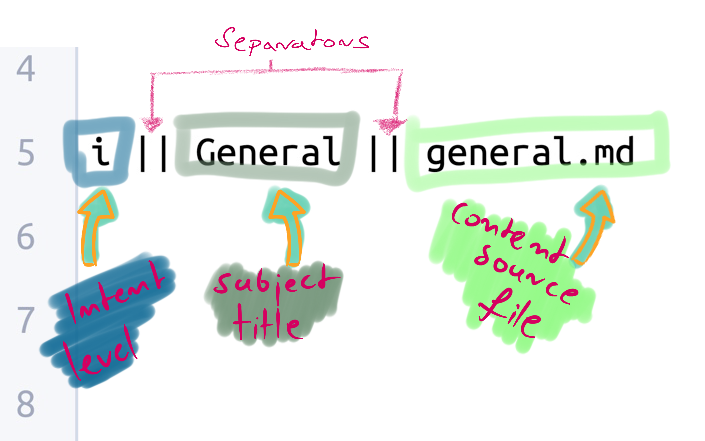
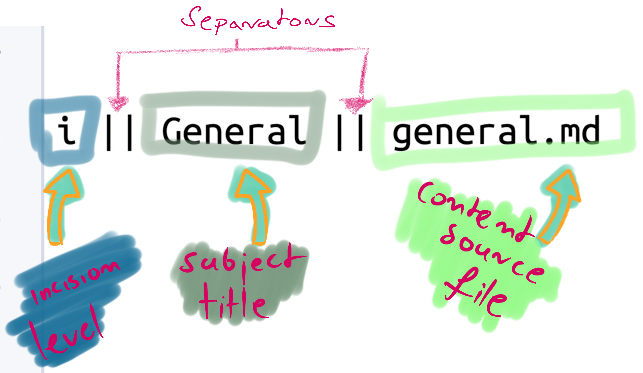
Remove typo from Readme

Changed region(s): [[0.0, 0.0, 0.9953, 1.0]]

diff --git a/README.md b/README.md
@@ -13,7 +13,7 @@ Therefore, creating of documentation for your project, should not limit you at a
 This simple to use script is intended to be very easy to use and reduce as much as possible git conflicts among the team members interaction with documentation.
 - By separate file for each Table of Content subject we can organize information in small encapsulated .md files.
 - There will be no longer situation that someone won't add another subject in the middle of the documentation, because all subjects iteration is done by the script.
-- You can define as many intentions in the file as you want!
+- You can define as many incision in the file as you want!
 - You can tap into Table of Content subject and you will be redirected to particular place in the documentation file.
 
 # How it works? 
@@ -23,7 +23,8 @@ This simple to use script is intended to be very easy to use and reduce as much 
 ## Features
 - automatic subject enumeration
 - separation of content by using different source .md file for each Section. In this way there will be very small probability to have merge conflicts in the team
-- multiple intent, you can define easily structure which will support e.g. 1.1.1.3 subject intent
+- multiple incisions, you can define easily structure which will support e.g. 1.1.1.3 subject incision
+- Table of Content subject are linked 
 
 # Usage
 

diff --git a/TODO.md b/TODO.md
@@ -12,3 +12,4 @@
 - [ ] Add "Do not edit directly .md file" footer
 - [ ] Unit Tests
 - [ ] Move Todo to separate .md file
+- [ ] Change misspelling in the code from "intention" to "incision"
